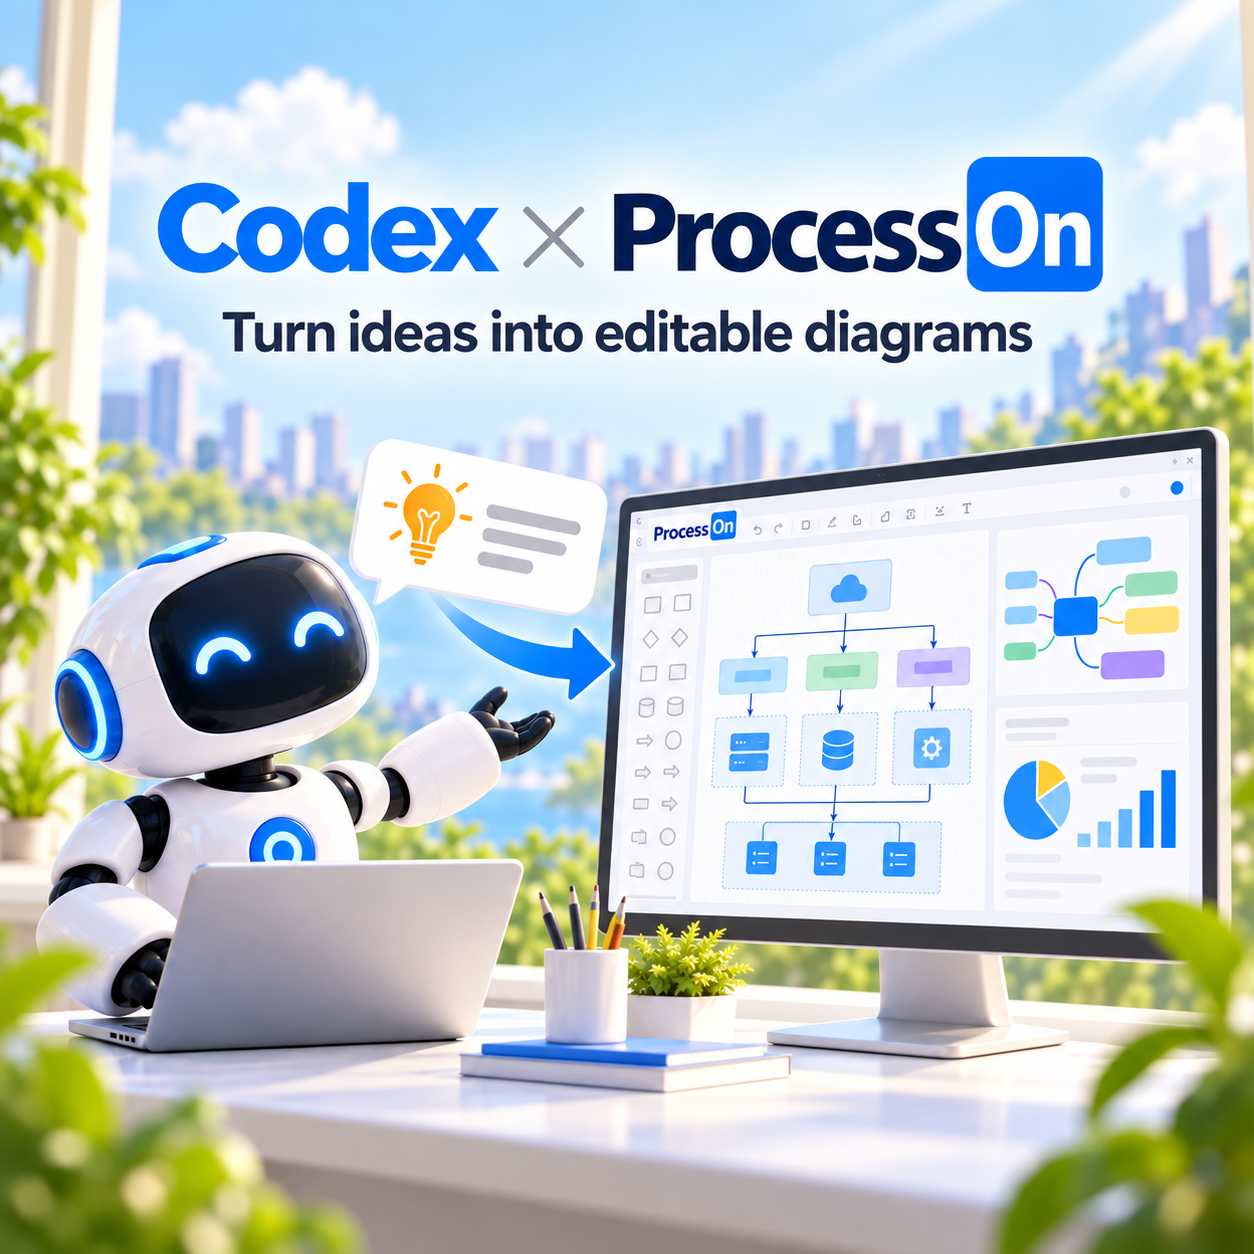
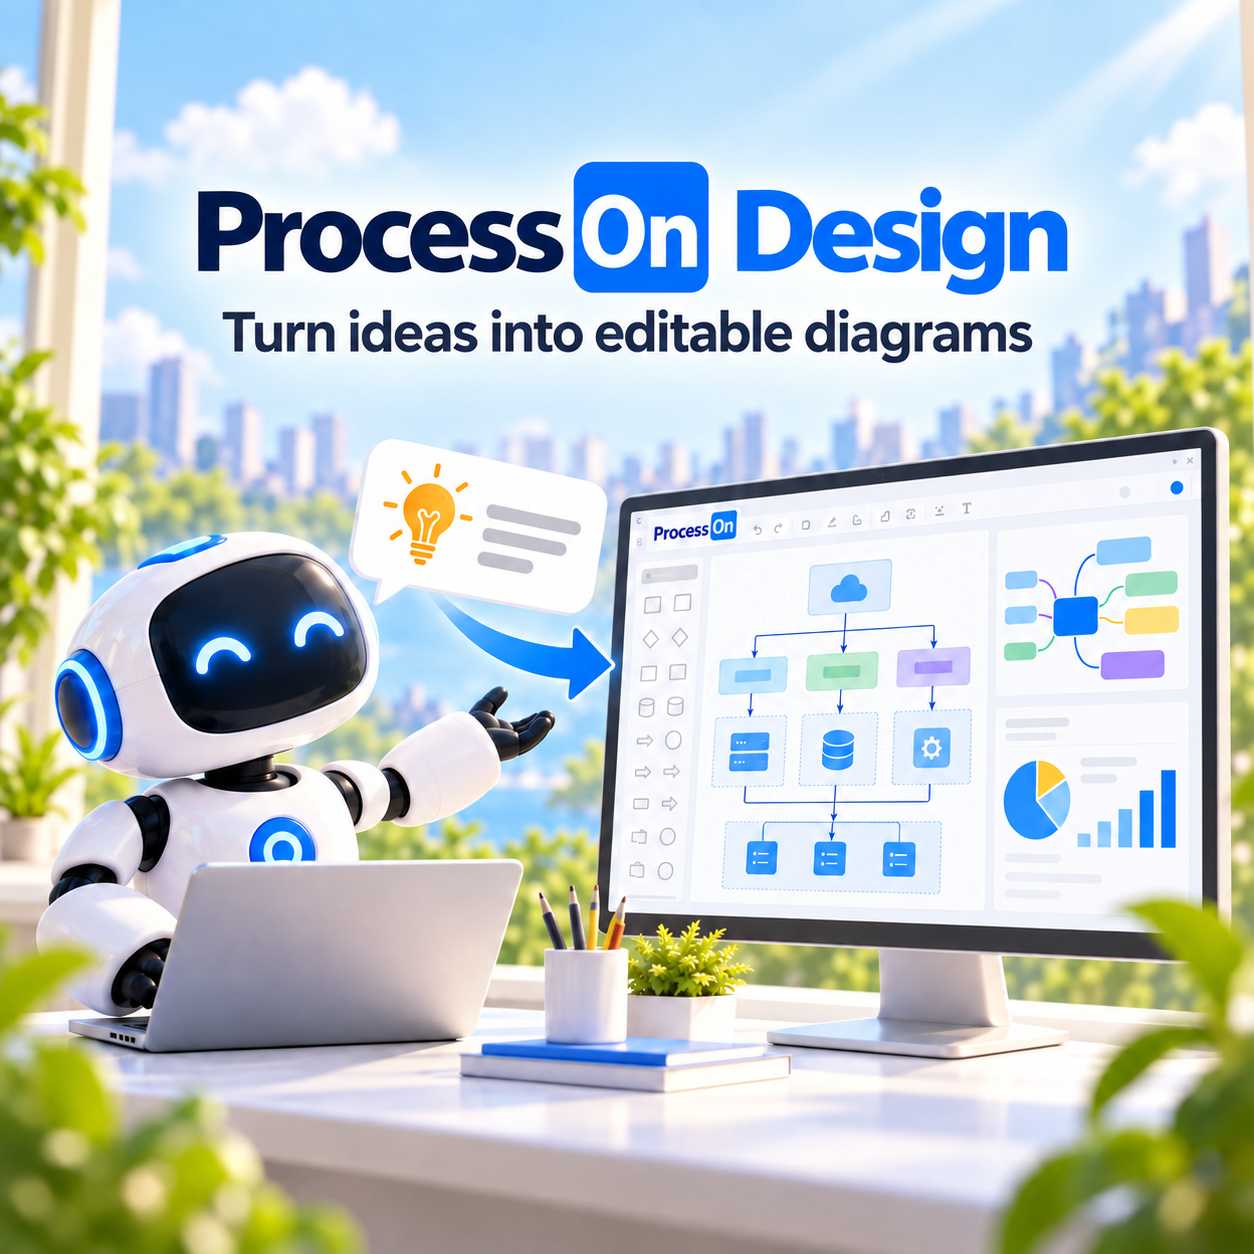
fix: 统一跨宿主公开品牌

Changed region(s): [[0.1244, 0.1244, 0.9019, 0.2488], [0.4976, 0.7464, 0.5909, 0.8086]]

diff --git a/tests/test_docs.py b/tests/test_docs.py
@@ -142,8 +142,8 @@ class DocumentationTest(unittest.TestCase):
 
     def test_readmes_use_real_marketplace_install_commands(self):
         commands = (
-            "codex plugin marketplace add full-stack-plugins/processon-design-plugin --ref v0.2.4",
-            "codex plugin marketplace add https://github.com/full-stack-plugins/processon-design-plugin.git --ref v0.2.4 --sparse .agents/plugins",
+            "codex plugin marketplace add full-stack-plugins/processon-design-plugin --ref v0.2.5",
+            "codex plugin marketplace add https://github.com/full-stack-plugins/processon-design-plugin.git --ref v0.2.5 --sparse .agents/plugins",
             "codex plugin marketplace add ./partme-processon-plugin",
             "codex plugin add processon-design@partme-ai-processon",
         )

diff --git a/tests/test_cross_host_naming.py b/tests/test_cross_host_naming.py
@@ -5,7 +5,13 @@ import unittest
 
 
 ROOT = Path(__file__).resolve().parents[1]
-BANNED_PUBLIC_NAMES = ("codex" + "-processon", "codex" + " ProcessOn", "codex" + "-ProcessOn",)
+BANNED_PUBLIC_NAMES = (
+    "codex" + "-processon",
+    "codex" + " ProcessOn",
+    "codex" + "-ProcessOn",
+    "Codex" + " × ProcessOn",
+    "ProcessOn" + " for Codex",
+)
 TEXT_SUFFIXES = {".md", ".json", ".py", ".mjs", ".js", ".toml", ".yaml", ".yml", ".svg"}
 EXCLUDED_PARTS = {".git", ".mimosa", ".worktrees", ".superpowers", "artifacts", "openspec", "superpowers", "verification", "__pycache__"}
 

diff --git a/tests/test_manifest.py b/tests/test_manifest.py
@@ -44,7 +44,7 @@ class ManifestContractTest(unittest.TestCase):
             "https://github.com/full-stack-plugins/processon-design-plugin.git",
             entry["source"]["url"],
         )
-        self.assertEqual("v0.2.4", entry["source"]["ref"])
+        self.assertEqual("v0.2.5", entry["source"]["ref"])
 
     def test_plugin_uses_official_processon_name_and_icons(self):
         plugin = json.loads((ROOT / ".codex-plugin/plugin.json").read_text())

diff --git a/README.md b/README.md
@@ -1,24 +1,24 @@
-# ProcessOn for Codex
+# ProcessOn Design
 
-![Codex × ProcessOn — Turn ideas into editable diagrams](assets/processon-hero.png)
+![ProcessOn Design — Turn ideas into editable diagrams](assets/processon-hero.png)
 
 > Turn natural-language ideas, source context, and business workflows into polished ProcessOn diagrams that remain reviewable and editable.
 
-[![Version](https://img.shields.io/badge/version-0.2.4-blue)](https://github.com/full-stack-plugins/processon-design-plugin/releases/tag/v0.2.4)
+[![Version](https://img.shields.io/badge/version-0.2.5-blue)](https://github.com/full-stack-plugins/processon-design-plugin/releases/tag/v0.2.5)
 [![Tests](https://img.shields.io/badge/tests-81%20passing-18a957)](#development-and-verification)
 [![License](https://img.shields.io/badge/license-Apache--2.0-green)](LICENSE)
 
 [English](README.md) | [简体中文](README.zh-CN.md) · [Quick start](#quick-start) · [Examples](#copyable-examples) · [Troubleshooting](#troubleshooting)
 
-## ProcessOn in Codex
+## Codex host example
 
 ![ProcessOn plugin details in Codex, including starter prompts, MCP server, and seven Skills](assets/processon-plugin-detail.png)
 
-The installed plugin exposes three ready-to-run prompts, one ProcessOn MCP server, and seven focused Skills directly in Codex.
+In Codex, the installed plugin exposes three ready-to-run prompts, one ProcessOn MCP server, and seven focused Skills. ZCode and Kimi load the same public plugin identity through their host manifests.
 
 ## Positioning
 
-`processon-design` is a ProcessOn integration for Codex. It combines a secret-free local stdio proxy, the official remote ProcessOn MCP server, and seven focused Agent Skills that configure access, classify the requested visual, model its structure, improve the prompt, choose the best available tool, and review the result before delivery.
+`processon-design` is a cross-host ProcessOn integration for coding agents. It combines a secret-free local stdio proxy, the official remote ProcessOn MCP server, and seven focused Agent Skills that configure access, classify the requested visual, model its structure, improve the prompt, choose the best available tool, and review the result before delivery.
 
 ### Who it is for
 
@@ -38,7 +38,7 @@ Natural-language request / approved source material
                          │
                          ▼
 ┌──────────────────────────────────────────────────────────┐
-│ ProcessOn plugin for Codex                               │
+│ ProcessOn Design plugin                                 │
 │  1. Route: diagram / mind map / infographic              │
 │  2. Model: nodes, hierarchy, relationships, constraints  │
 │  3. Prompt: layout, notation, palette, readability       │
@@ -157,7 +157,7 @@ These are repository-local copies of outputs from the recorded live acceptance r
 Recommended — add this GitHub repository, pin `main`, then install ProcessOn:
 
 ```bash
-codex plugin marketplace add full-stack-plugins/processon-design-plugin --ref v0.2.4
+codex plugin marketplace add full-stack-plugins/processon-design-plugin --ref v0.2.5
 codex plugin add processon-design@partme-ai-processon
 ```
 
@@ -168,7 +168,7 @@ Alternative marketplace sources supported by Codex:
 codex plugin marketplace add full-stack-plugins/processon-design-plugin
 
 # Full Git URL with a sparse checkout of the marketplace catalog
-codex plugin marketplace add https://github.com/full-stack-plugins/processon-design-plugin.git --ref v0.2.4 --sparse .agents/plugins
+codex plugin marketplace add https://github.com/full-stack-plugins/processon-design-plugin.git --ref v0.2.5 --sparse .agents/plugins
 
 # Local clone for development
 git clone https://github.com/full-stack-plugins/processon-design-plugin.git
@@ -427,7 +427,7 @@ partme-processon-plugin/
 | Stable plugin identity | `processon-design` |
 | Skills under the plugin root | `skills/` with seven focused Skills |
 | Visual assets under the plugin root | Official wordmark, composer icon, hero screenshot under `assets/` |
-| Marketplace catalog | `.agents/plugins/marketplace.json` with Git source pinned to immutable `v0.2.4` |
+| Marketplace catalog | `.agents/plugins/marketplace.json` with Git source pinned to immutable `v0.2.5` |
 | OpenAI presentation metadata | `.codex-plugin/plugin.json` compatibility manifest |
 | MCP runtime | Secret-free `.mcp.json` starts the local stdio credential proxy |
 
@@ -457,7 +457,7 @@ The first two commands are repository-owned. The final plugin validator belongs 
 
 | Plugin version | Host | Runtime | Transport | Status |
 |---|---|---|---|---|
-| Historical `0.1.0+codex.<cachebuster>` evidence | Codex CLI (verified on `0.154.0-alpha.6.2`) or ChatGPT desktop app | Python 3 on `PATH` | Local stdio proxy to Streamable HTTP | Verified locally, including one authorized live generation; not fresh `0.2.4` runtime proof |
+| Historical `0.1.0+codex.<cachebuster>` evidence | Codex CLI (verified on `0.154.0-alpha.6.2`) or ChatGPT desktop app | Python 3 on `PATH` | Local stdio proxy to Streamable HTTP | Verified locally, including one authorized live generation; not fresh `0.2.5` runtime proof |
 | Historical `0.1.0` upstream example | any MCP client that supports inline headers | — | Direct HTTPS with an inline `Authorization` header | Documented upstream example, not the current plugin configuration |
 
 The negotiated protocol is `2025-06-18`. ProcessOn documents a limit of 600 requests per token per minute, and the endpoint is exactly `https://smart-hd.processon.com/mcp`.

diff --git a/README.zh-CN.md b/README.zh-CN.md
@@ -1,24 +1,24 @@
-# ProcessOn for Codex
+# ProcessOn Design
 
-![Codex × ProcessOn — 让想法成为可编辑图表](assets/processon-hero.png)
+![ProcessOn Design——让想法成为可编辑图表](assets/processon-hero.png)
 
 > 把自然语言想法、源码上下文和业务流程转化为专业、精美、可审查且可继续编辑的 ProcessOn 图表。
 
-[![版本](https://img.shields.io/badge/version-0.2.4-blue)](https://github.com/full-stack-plugins/processon-design-plugin/releases/tag/v0.2.4)
+[![版本](https://img.shields.io/badge/version-0.2.5-blue)](https://github.com/full-stack-plugins/processon-design-plugin/releases/tag/v0.2.5)
 [![测试](https://img.shields.io/badge/tests-81%20passing-18a957)](#开发与验证)
 [![许可证](https://img.shields.io/badge/license-Apache--2.0-green)](LICENSE)
 
 [English](README.md) | [简体中文](README.zh-CN.md) · [快速开始](#快速开始) · [示例](#可复制示例) · [故障排查](#故障排查)
 
-## Codex 中的 ProcessOn
+## Codex 宿主示例
 
 ![Codex 中的 ProcessOn 插件详情，包括快捷提示、MCP 服务器和七个 Skill](assets/processon-plugin-detail.png)
 
-安装后，Codex 会直接展示三个可运行提示、一个 ProcessOn MCP 服务器和七个专用 Skill。
+在 Codex 中，安装后的插件会展示三个可运行提示、一个 ProcessOn MCP 服务器和七个专用 Skill。ZCode 与 Kimi 通过各自宿主清单加载同一公开插件身份。
 
 ## 项目定位
 
-`processon-design` 是面向 Codex 的 ProcessOn 集成。它把无密钥的本地 stdio 代理、ProcessOn 官方远程 MCP 与七个专用 Agent Skills 组合起来：配置访问、识别图形类型、建立结构模型、增强 Prompt、选择当前最佳工具，并在交付前审查真实结果。
+`processon-design` 是面向多种编码智能体宿主的 ProcessOn 集成。它把无密钥的本地 stdio 代理、ProcessOn 官方远程 MCP 与七个专用 Agent Skills 组合起来：配置访问、识别图形类型、建立结构模型、增强 Prompt、选择当前最佳工具，并在交付前审查真实结果。
 
 ### 适合谁
 
@@ -38,7 +38,7 @@
                   │
                   ▼
 ┌──────────────────────────────────────────────────────┐
-│ ProcessOn for Codex                                  │
+│ ProcessOn Design                                     │
 │  1. 路由：专业图 / 思维导图 / 信息图                 │
 │  2. 建模：节点、层级、关系、约束                     │
 │  3. Prompt：布局、规范、配色、可读性                 │
@@ -157,7 +157,7 @@ flowchart LR
 推荐方式——添加本项目 GitHub 仓库、固定 `main`，然后安装 ProcessOn：
 
 ```bash
-codex plugin marketplace add full-stack-plugins/processon-design-plugin --ref v0.2.4
+codex plugin marketplace add full-stack-plugins/processon-design-plugin --ref v0.2.5
 codex plugin add processon-design@partme-ai-processon
 ```
 
@@ -168,7 +168,7 @@ Codex 官方支持的其他 marketplace 来源写法：
 codex plugin marketplace add full-stack-plugins/processon-design-plugin
 
 # 完整 Git URL，仅稀疏检出 marketplace 目录
-codex plugin marketplace add https://github.com/full-stack-plugins/processon-design-plugin.git --ref v0.2.4 --sparse .agents/plugins
+codex plugin marketplace add https://github.com/full-stack-plugins/processon-design-plugin.git --ref v0.2.5 --sparse .agents/plugins
 
 # 本地克隆，适合开发调试
 git clone https://github.com/full-stack-plugins/processon-design-plugin.git
@@ -420,7 +420,7 @@ partme-processon-plugin/
 | 稳定插件身份 | `processon-design` |
 | 根目录 Skills | `skills/` 中包含七个专用 Skill |
 | 根目录视觉资产 | `assets/` 中包含官方字标、composer 图标和宣传截图 |
-| Marketplace 目录 | `.agents/plugins/marketplace.json`，Git source 固定到不可变的 `v0.2.4` |
+| Marketplace 目录 | `.agents/plugins/marketplace.json`，Git source 固定到不可变的 `v0.2.5` |
 | OpenAI 展示元数据 | `.codex-plugin/plugin.json` 兼容清单 |
 | MCP 运行时 | 无密钥 `.mcp.json` 启动本地 stdio 凭证代理 |
 
@@ -450,7 +450,7 @@ git diff --check
 
 | 插件版本 | 宿主 | 运行环境 | 传输 | 状态 |
 |---|---|---|---|---|
-| 历史 `0.1.0+codex.<cachebuster>` 证据 | Codex CLI（实测于 `0.154.0-alpha.6.2`）或 ChatGPT 桌面应用 | `PATH` 上的 Python 3 | 本地 stdio 代理转发到 Streamable HTTP | 本地已验证，含一次经授权的真实生成；不是新的 `0.2.4` 运行期证明 |
+| 历史 `0.1.0+codex.<cachebuster>` 证据 | Codex CLI（实测于 `0.154.0-alpha.6.2`）或 ChatGPT 桌面应用 | `PATH` 上的 Python 3 | 本地 stdio 代理转发到 Streamable HTTP | 本地已验证，含一次经授权的真实生成；不是新的 `0.2.5` 运行期证明 |
 | 历史 `0.1.0` 上游示例 | 任何支持内联请求头的 MCP Client | — | 直接 HTTPS 并内联 `Authorization` 头 | 上游文档示例，不是当前插件配置 |
 
 协商协议为 `2025-06-18`。ProcessOn 文档声明每个 Token 每分钟最多 600 次请求，端点为 `https://smart-hd.processon.com/mcp`。
